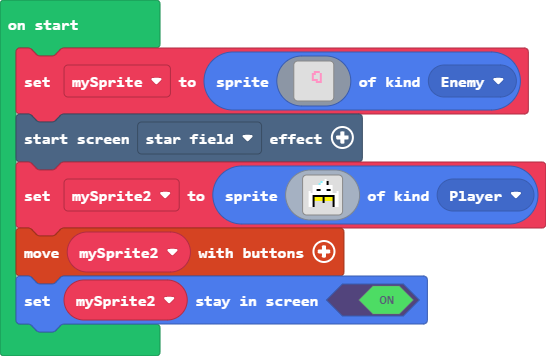
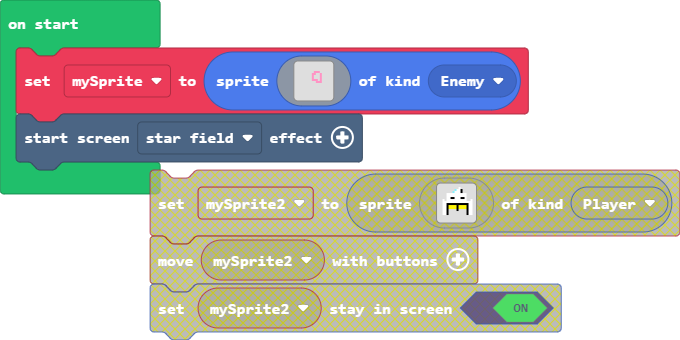
Update main.blocks, main.ts

diff --git a/main.ts b/main.ts
@@ -17,23 +17,3 @@ let mySprite = sprites.create(img`
     . . . . . . . . . . . . . . . . 
     `, SpriteKind.Enemy)
 effects.starField.startScreenEffect()
-let mySprite2 = sprites.create(img`
-    . . . . . . . . . 1 . . . . . . 
-    . . . . . . . 9 1 1 f . . . . . 
-    . . . . . . 9 1 1 1 f . . . . . 
-    . . . 1 1 1 1 1 1 1 1 1 1 . . . 
-    . . . 1 1 1 1 1 1 1 1 1 1 . . . 
-    . . . 1 1 f f 1 1 1 f f 1 . . . 
-    . 1 . 1 1 1 1 1 1 1 1 1 1 . . 1 
-    . 1 1 1 1 1 1 1 1 1 1 1 1 1 1 1 
-    . 1 1 f f f f f f f f f f f 1 1 
-    . 1 1 f 5 5 5 5 f 5 5 5 5 f 1 1 
-    . 1 1 f 5 5 5 5 f 5 5 5 5 f 1 1 
-    . 1 1 f . . . . f . . . . f 1 1 
-    . 1 1 f . . . . . . . . . f 1 1 
-    . 1 1 f . . . . . . . . . f 1 1 
-    . . . . . . . . . . . . . . . . 
-    . . . . . . . . . . . . . . . . 
-    `, SpriteKind.Player)
-controller.moveSprite(mySprite2)
-mySprite2.setStayInScreen(true)
